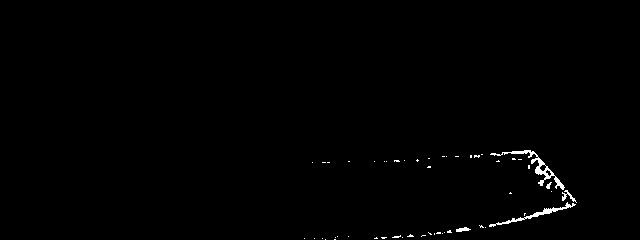
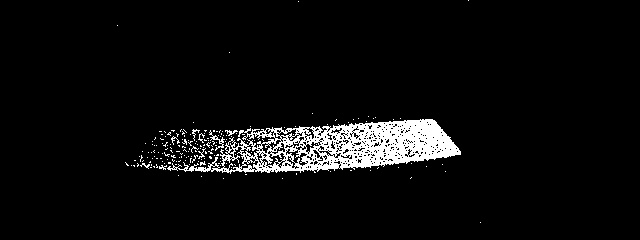
- Lane detecting while driving works. Todo:   1) get center of the lane   2) detect and mark the red lane in horizontal   3) cut some of left side scene would be helpful?   4) test if getting the center of lane (detecting white/yellow) is accurate and consistent

diff --git a/JetsonNano/khani.py b/JetsonNano/khani.py
@@ -5,20 +5,21 @@ import time
 import cv2
 import numpy as np
 import copy
+import jetbot
 
 class Khani:
     def __init__(self, var):
         self.var = var
         self.serialCommunicator = SerialCommunicator(self, var)
-        self.cameraHandler = CameraHandlerSampleImg(self, var)
-        # sleep(2)
+        self.cameraHandler = CameraHandler(self, var)
+        sleep(2)
         self.laneDetector = LaneDetector(self ,var)
         # self.serialCommunicator = None
         # self.serialCommunicator.observe('tiktok', self.serialCommunicator.event_triggered)
         # self.cameraHandler = CameraHandler()
         # self.cameraHandlerSampleImg = None
         # self.laneDetector = None
-        # self.robotDriver = RobotDriver(self)
+        self.robotDriver = RobotDriver(self, var)
 
         self.threadPool = []
         self.tickLeft = 0
@@ -31,6 +32,7 @@ class Khani:
         self.threadPool.append(self.cameraHandler)
         # self.threadPool.append(CameraHandler())
         self.threadPool.append(self.laneDetector)
+        self.threadPool.append(self.robotDriver)
 
         for i in range(len(self.threadPool)):
             self.threadPool[i].start()
@@ -56,6 +58,7 @@ class Var:
         self.serialObject = None
 
         # CameraHandler
+        self.camera = None
         self.camWidth = 0
         self.camHeight = 0
         self.scene = None
@@ -67,6 +70,11 @@ class Var:
         self.ROILeft = 0
         self.ROIWidth = 0
         self.ROIBorder = 0
+
+        # RobotDriver
+        self.robot = None
+        self.motorSpeedLeft = 0
+        self.motorSpeedRight = 0
 
 
 class SerialCommunicator (threading.Thread):
@@ -121,6 +129,83 @@ class SerialCommunicator (threading.Thread):
                 print("TypeError - SerialCommunicator()")
 
 
+class CameraHandler(threading.Thread):
+    def __init__(self, khani, var, width=640, height=480, \
+                 ROITop=160, ROIHeight=240, ROILeft=0, ROIWidth=640, saveFramesToFile=True):
+        super().__init__()
+        self.khani = khani
+        self.var = var
+        self.var.camWidth = width
+        self.var.camHeight = height
+        self.var.camera = jetbot.Camera.instance(width=self.var.camWidth, height=self.var.camHeight)
+        # Region Of Interest and Whole scene
+        self.var.ROITop = ROITop
+        self.var.ROIHeight = ROIHeight
+        self.var.ROILeft = ROILeft
+        self.var.ROIWidth = ROIWidth
+
+    def cropROI(self, scene):
+        # cv2.imwrite('./img/scene.jpg', scene)
+
+        # ROI value range: 0 ~ 100
+        self.var.ROI = scene[self.var.ROITop:self.var.ROITop + self.var.ROIHeight, \
+                            self.var.ROILeft:self.var.ROILeft + self.var.ROIWidth, :]
+        # cv2.imwrite('./img/ROI.jpg', self.var.ROI)
+
+    def updateScene(self):
+        self.var.scene = self.var.camera.value
+
+    def saveROIFileFromSampleImage(self):
+        save = cv2.imwrite('./img/sample/sampleROI.jpg', self.var.ROI)
+        # if save:
+        #     self.var.ROI = cv2.imread('./img/sample/sampleROI.jpg')
+
+    def markROIinScene(self):
+        self.var.ROIBorder = 2
+        border = self.var.ROIBorder
+        top = self.var.ROITop
+        height = self.var.ROIHeight
+        left = self.var.ROILeft
+        width = self.var.ROIWidth
+
+        self.var.sceneROIMarked = copy.deepcopy(self.var.scene)
+
+        # left border
+        self.var.sceneROIMarked[top:top+height, left:left+border, 0] = 255
+        self.var.sceneROIMarked[top:top+height, left:left+border, 1] = 0
+        self.var.sceneROIMarked[top:top+height, left:left+border, 2] = 0
+        # right border
+        self.var.sceneROIMarked[top:top+height, left+width-border:left+width, 0] = 255
+        self.var.sceneROIMarked[top:top+height, left+width-border:left+width, 1] = 0
+        self.var.sceneROIMarked[top:top+height, left+width-border:left+width, 2] = 0
+        # top border
+        self.var.sceneROIMarked[top:top+border, left:left+width, 0] = 255
+        self.var.sceneROIMarked[top:top+border, left:left+width, 1] = 0
+        self.var.sceneROIMarked[top:top+border, left:left+width, 2] = 0
+        # bottom border
+        self.var.sceneROIMarked[top+height-border:top+height, left:left+width, 0] = 255
+        self.var.sceneROIMarked[top+height-border:top+height, left:left+width, 1] = 0
+        self.var.sceneROIMarked[top+height-border:top+height, left:left+width, 2] = 0
+        # cv2.imwrite('./img/ROI.jpg', self.var.ROI)
+        # cv2.imwrite('./img/sceneROIMarked.jpg', self.var.sceneROIMarked)
+
+    def run(self):
+        while True:
+            # sleep(1)
+            try:
+                # Load sample frame from img file
+                self.updateScene()
+
+                # Crop ROI from whole scene
+                self.cropROI(self.var.scene)
+                # Mark ROI in whole scene for debugging
+                self.markROIinScene()
+
+                # Save to file
+                # self.saveROIFileFromSampleImage()
+            except TypeError:
+                print("TypeError - CameraHandlerSampleImg()")
+
 class CameraHandlerSampleImg(threading.Thread):
     def __init__(self, khani, var, width=640, height=480, \
                  ROITop=160, ROIHeight=240, ROILeft=0, ROIWidth=640, saveFramesToFile=True):
@@ -135,11 +220,11 @@ class CameraHandlerSampleImg(threading.Thread):
         self.var.ROILeft = ROILeft
         self.var.ROIWidth = ROIWidth
 
-    def cropROI(self, frame):
-        cv2.imwrite('./img/frame.jpg', frame)
+    def cropROI(self, scene):
+        cv2.imwrite('./img/scene.jpg', scene)
 
         # ROI value range: 0 ~ 100
-        self.var.ROI = frame[self.var.ROITop:self.var.ROITop + self.var.ROIHeight, \
+        self.var.ROI = scene[self.var.ROITop:self.var.ROITop + self.var.ROIHeight, \
                             self.var.ROILeft:self.var.ROILeft + self.var.ROIWidth, :]
         cv2.imwrite('./img/ROI.jpg', self.var.ROI)
 
@@ -203,14 +288,42 @@ class LaneDetector (threading.Thread):
         self.khani = khani
         self.var = var
 
+        self.detect_count = 0
+
     def detectLanes(self):
         # Convert BGR to HSL
         if self.var.ROI is None:
-            print('img not laoded', time.time())
+            # print('ROI is empty', time.time())
             return
         else:
-            # print('img loaded', time.time())
             self.var.ROIHSV = cv2.cvtColor(self.var.ROI, cv2.COLOR_BGR2HSV)
+
+        # Yellow lane
+        low_yellow = np.array([20, 100, 100])
+        high_yellow = np.array([30, 255, 255])
+        yellow_mask = cv2.inRange(self.var.ROIHSV, low_yellow, high_yellow)
+        yellow = cv2.bitwise_and(self.var.ROI, self.var.ROI, mask=yellow_mask)
+        yellow_sum = yellow_mask.sum(axis = 0)
+        yellow_center = yellow_sum.argmax()
+        yellow[np.arange(len(yellow)), yellow_center] = 255
+        # cv2.imwrite('./img/ROIyellowHSV.jpg', self.var.ROIHSV)
+        # cv2.imwrite('./img/ROIyellowscene.jpg', self.var.scene)
+        # cv2.imwrite('./img/ROIyellowresult.jpg', yellow)
+        # cv2.imwrite('./img/ROIyellowMask.jpg', yellow_mask)
+        # print('yellow_center:', yellow_center, yellow.shape)
+
+        # White lane
+        low_white = np.array([0, 0, 220])
+        high_white = np.array([255, 100, 255])
+        white_mask = cv2.inRange(self.var.ROIHSV, low_white, high_white)
+        white = cv2.bitwise_and(self.var.ROI, self.var.ROI, mask=white_mask)
+        white_sum = white_mask.sum(axis = 0)
+        white_center = white_sum.argmax()
+        white[np.arange(len(white)), white_center] = 255
+        # cv2.imwrite('./img/ROIwhiteHSV.jpg', self.var.ROIHSV)
+        # cv2.imwrite('./img/ROIwhitescene.jpg', self.var.scene)
+        # cv2.imwrite('./img/ROIwhiteresult.jpg', white)
+        # cv2.imwrite('./img/ROIwhiteMask.jpg', white_mask)
 
         # Red color
         low_min_red = np.array([0, 100, 100])
@@ -221,77 +334,26 @@ class LaneDetector (threading.Thread):
         red_high_mask = cv2.inRange(self.var.ROIHSV, high_min_red, high_max_red)
         red = cv2.bitwise_and(self.var.ROI, self.var.ROI, mask=red_low_mask) + \
               cv2.bitwise_and(self.var.ROI, self.var.ROI, mask=red_high_mask)
-        cv2.imwrite('./img/ROIredHSV.jpg', self.var.ROIHSV)
-        cv2.imwrite('./img/ROIredscene.jpg', self.var.scene)
-        cv2.imwrite('./img/ROIredresult.jpg', red)
-        cv2.imwrite('./img/ROIredMasklow.jpg', red_low_mask)
-        cv2.imwrite('./img/ROIredMaskhigh.jpg', red_high_mask)
+        red_sum = red_low_mask.sum(axis = 0) + red_high_mask.sum(axis = 0)
+        red_center = red_sum.argmax()
+        red[np.arange(len(red)), red_center] = 255
+        # red[np.arange(len(red)), red_center][0] = 255
+        # red[np.arange(len(red)), red_center][1] = 0
+        # red[np.arange(len(red)), red_center][2] = 255
+        # red[red_center] = 255
+        # cv2.imwrite('./img/ROIredHSV.jpg', self.var.ROIHSV)
+        # cv2.imwrite('./img/ROIredscene.jpg', self.var.scene)
+        # cv2.imwrite('./img/ROIredresult.jpg', red)
+        # cv2.imwrite('./img/ROIredMasklow.jpg', red_low_mask)
+        # cv2.imwrite('./img/ROIredMaskhigh.jpg', red_high_mask)
 
-        # Yellow lane
-        low_yellow = np.array([20, 100, 100])
-        high_yellow = np.array([30, 255, 255])
-        yellow_mask = cv2.inRange(self.var.ROIHSV, low_yellow, high_yellow)
-        yellow = cv2.bitwise_and(self.var.ROI, self.var.ROI, mask=yellow_mask)
-        cv2.imwrite('./img/ROIyellowHSV.jpg', self.var.ROIHSV)
-        cv2.imwrite('./img/ROIyellowscene.jpg', self.var.scene)
-        cv2.imwrite('./img/ROIyellowresult.jpg', yellow)
-        cv2.imwrite('./img/ROIyellowMask.jpg', yellow_mask)
-
-        # White lane
-        low_white = np.array([0, 0, 220])
-        high_white = np.array([255, 100, 255])
-        white_mask = cv2.inRange(self.var.ROIHSV, low_white, high_white)
-        white = cv2.bitwise_and(self.var.ROI, self.var.ROI, mask=white_mask)
-        cv2.imwrite('./img/ROIwhiteHSV.jpg', self.var.ROIHSV)
-        cv2.imwrite('./img/ROIwhitescene.jpg', self.var.scene)
-        cv2.imwrite('./img/ROIwhiteresult.jpg', white)
-        cv2.imwrite('./img/ROIwhiteMask.jpg', white_mask)
-
-
-        # # Range for lower red
-        # lower_red = np.array([0, 120, 70])
-        # upper_red = np.array([10, 255, 255])
-        # mask1 = cv2.inRange(self.var.ROIHSV, lower_red, upper_red)
-        #
-        # # Range for upper range
-        # lower_red = np.array([170, 120, 70])
-        # upper_red = np.array([180, 255, 255])
-        # mask2 = cv2.inRange(self.var.ROIHSV, lower_red, upper_red)
-
-        # # Generating the final mask to detect red color
-        # mask = mask1 + mask2
-        #
-        # mask1 = cv2.morphologyEx(mask, cv2.MORPH_OPEN, np.ones((3, 3), np.uint8))
-        # mask1 = cv2.morphologyEx(mask, cv2.MORPH_DILATE, np.ones((3, 3), np.uint8))
-        #
-        # # creating an inverted mask to segment out the cloth from the frame
-        # mask2 = cv2.bitwise_not(mask1)
-        #
-        # # Segmenting the cloth out of the frame using bitwise and with the inverted mask
-        # res1 = cv2.bitwise_and(self.var.ROIMarked, self.var.ROIMarked, mask=mask2)
-        #
-        # # creating image showing static background frame pixels only for the masked region
-        # res2 = cv2.bitwise_and(self.var.ROI, self.var.ROI, mask=mask1)
-        #
-        # # Generating the final output
-        # final_output = cv2.addWeighted(res1, 1, res2, 1, 0)
-
-        # lower_yellow = np.array([0, 30, 80])
-        # upper_yellow = np.array([20, 70, 120])
-        #
-        # mask = cv2.inRange(self.var.ROIHSV, lower_yellow, upper_yellow)
-        # result = cv2.bitwise_and(self.var.ROI, self.var.ROI, mask=mask)
-
-        # a = np.zeros([3,3,3])
-        # print(type(a))
-        # print(a.shape)
-        # a[:,:3,0] = 255
-
-        # cv2.imwrite('./img/a.jpg', a)
-        # cv2.imwrite('./img/ROIfinal.jpg', final_output)
-        # cv2.imwrite('./img/ROI.jpg', self.var.ROI)
-        # cv2.imwrite('./img/ROIMarked.jpg', self.var.ROIMarked)
-        # cv2.imwrite('./img/ROIResult.jpg', result)
+        detected_lanes = yellow + white + red
+        prefix = './img/detectLanes/lane'
+        self.detect_count += 1
+        midfix = str(self.detect_count).zfill(10)
+        suffix = ".jpg"
+        detected_lanes_filename = "{}{}{}".format(prefix, midfix, suffix)
+        cv2.imwrite(detected_lanes_filename, detected_lanes)
 
     def run(self):
         while True:
@@ -309,3 +371,67 @@ class LaneDetector (threading.Thread):
                 pass
             except TypeError:
                 print("TypeError - CameraHandler()")
+
+
+class RobotDriver(threading.Thread):
+    def __init__(self, khani, var):
+        super().__init__()
+        self.khani = khani
+        self.var = var
+        self.robot = jetbot.Robot()
+        self.var.motorSpeedLeft = 0
+        self.var.motorSpeedRight = 0
+
+        ###### Ticks ######
+        # 1 revolution = 1938 ticks
+        # wheel circumference = 20.5cm
+        # 1 tick = 20.5cm / 1938 ticks = 0.0106cm = 0.106mm
+        # number of ticks 't' to travel 'x' distance:
+        # t = x / 0.0106 (in cm)
+        self.cm_per_tick = 0.0106
+
+    def driveXcm(self, x, motorSpeedLeft = 0.3, motorSpeedRight = 0.3):
+        requiredTicks = self.calculateTicksForXCm(x)
+        print("required Ticks:{}".format(requiredTicks))
+        # sleep(2)
+        while True:
+            if self.var.robot is None:
+                print('robot is None')
+                self.var.robot = jetbot.Robot()
+                print('robot created!')
+            else:
+                print('robot existed')
+                break
+
+        print(self.var.robot, self.var.tickLeft, self.var.tickRight)
+        goalTicksLeft = self.var.tickLeft + requiredTicks
+        goalTicksRight = self.var.tickRight + requiredTicks
+        self.var.robot.set_motors(motorSpeedLeft, motorSpeedRight)
+        while self.var.tickLeft <= goalTicksLeft and self.var.tickRight <= goalTicksRight:
+            pass
+        self.var.robot.stop()
+
+    def turnXLaps(self, counterClockwise = True):
+        if counterClockwise == True:
+            self.var.robot.set_motors(0.3, 0.6)
+        sleep(10)
+        self.var.robot.stop()
+
+    def calculateTicksForXCm(self, x):
+        return x // self.cm_per_tick
+
+    def run(self):
+        print('RobotDriver started!!!')
+        try:
+            self.driveXcm(60,0.3,0.33)
+            # self.printROI()
+            # ROIExists = self.updateROI()
+            # while not ROIExists:
+            #     sleep(0.2)
+            #     print("ROI not exists")
+            #     ROIExists = self.updateROI()
+            # self.markROIinScene()
+            # print("detectLane() ", type(self.ROIMarked), self.ROIMarked.shape)
+            pass
+        except:
+            print("Error - RobotDriver()")
